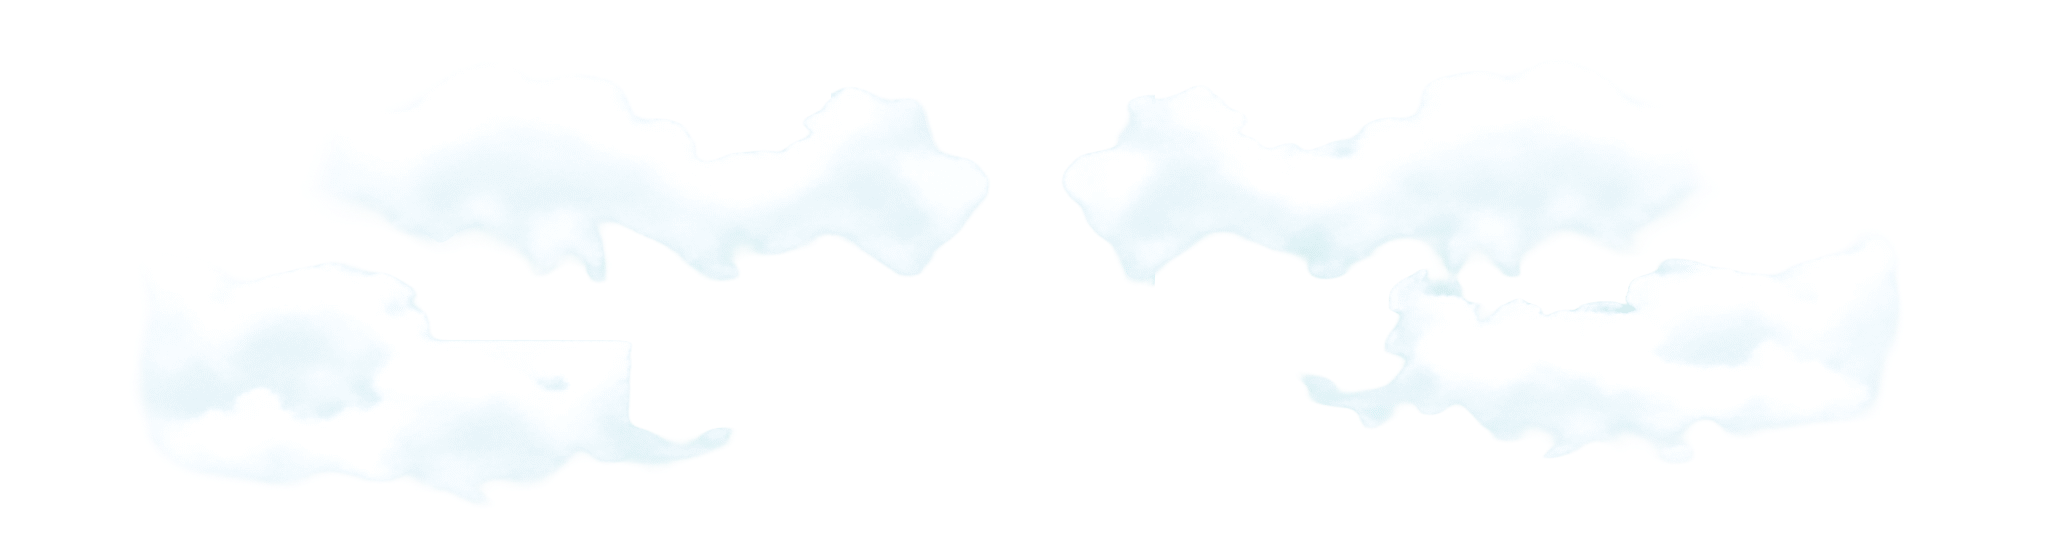
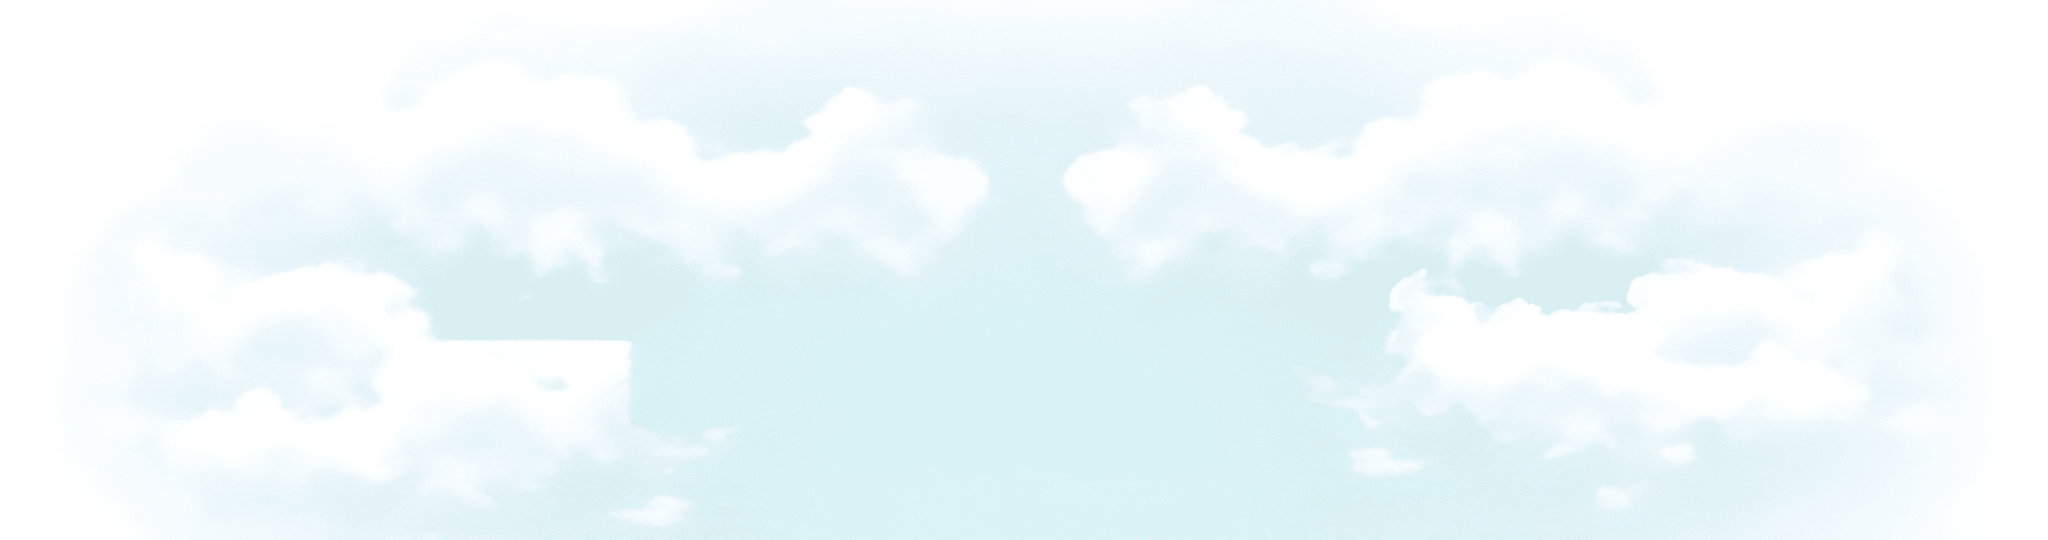
fix: improve NotFound page visuals and enhance LoaderProvider functionality

Changed region(s): [[0.125, 0.1778, 0.9062, 1.0], [0.3438, 0.1778, 0.4062, 0.2963], [0.5938, 0.2074, 0.6875, 0.2667]]

diff --git a/app/not-found.tsx b/app/not-found.tsx
@@ -2,7 +2,6 @@
 
 import { motion } from "framer-motion";
 import Link from "next/link";
-import { Button } from "@/components/ui/Button";
 
 export default function NotFound() {
 	return (
@@ -13,54 +12,90 @@ export default function NotFound() {
 					src="/assets/images/image-404.png"
 					alt=""
 					aria-hidden
-					className="h-full w-full object-cover opacity-60"
+					className="h-full w-full object-cover opacity-80 contrast-125 saturate-50"
 				/>
-				{/* Overlay dégradé doré en bas */}
-				<div className="absolute inset-0 bg-gradient-to-t from-ivory via-ivory/40 to-transparent" />
+				{/* Overlay pour contraste */}
+				<div className="absolute inset-0 bg-ivory/20" />
+				<div className="absolute inset-0 bg-gradient-to-t from-ivory via-ivory/30 to-ivory/10" />
 			</div>
 
-			{/* 404 géant — effet flouté / brume dorée */}
+			{/* 404 géant — plus visible, doré intense */}
 			<div className="pointer-events-none absolute inset-0 flex items-center justify-center">
 				<motion.span
-					initial={{ opacity: 0, scale: 0.9 }}
+					initial={{ opacity: 0, scale: 0.8 }}
 					animate={{ opacity: 1, scale: 1 }}
-					transition={{ duration: 1.2, ease: [0.22, 1, 0.36, 1] }}
-					className="select-none font-display text-[220px] leading-none font-bold tracking-tight text-gold/20 blur-[2px] sm:text-[320px] md:text-[400px]"
-					style={{ WebkitTextStroke: "1px rgba(253,207,2,0.08)" }}
+					transition={{ duration: 1, ease: [0.22, 1, 0.36, 1] }}
+					className="select-none font-display text-[200px] leading-none font-bold text-gold/40 sm:text-[300px] md:text-[380px]"
+					style={{ WebkitTextStroke: "2px rgba(253,207,2,0.15)" }}
 				>
 					404
 				</motion.span>
 			</div>
 
-			{/* Couche brume dorée supplémentaire */}
+			{/* Glow doré derrière le 404 */}
 			<div
 				aria-hidden
-				className="pointer-events-none absolute inset-0 opacity-30"
+				className="pointer-events-none absolute inset-0"
 				style={{
 					background:
-						"radial-gradient(ellipse 80% 50% at 50% 60%, rgba(253,207,2,0.15) 0%, transparent 70%)",
+						"radial-gradient(ellipse 60% 40% at 50% 50%, rgba(253,207,2,0.12) 0%, transparent 60%)",
 				}}
 			/>
 
 			{/* Contenu */}
 			<motion.div
-				initial={{ opacity: 0, y: 24 }}
+				initial={{ opacity: 0, y: 30 }}
 				animate={{ opacity: 1, y: 0 }}
-				transition={{ duration: 0.8, delay: 0.3, ease: [0.22, 1, 0.36, 1] }}
+				transition={{ duration: 0.8, delay: 0.2, ease: [0.22, 1, 0.36, 1] }}
 				className="relative z-10 flex flex-col items-center px-6 text-center"
 			>
 				<h1 className="font-display text-4xl font-bold tracking-tight text-royal sm:text-5xl">
 					Page introuvable
 				</h1>
-				<p className="mt-4 max-w-md font-sans text-base leading-relaxed text-slate-ink/70">
+				<p className="mt-4 max-w-md font-sans text-base leading-relaxed text-slate-ink">
 					La page que vous recherchez n'existe pas ou a été déplacée.
 					Revenons à l'accueil pour découvrir nos soins.
 				</p>
-				<div className="mt-8">
-					<Button href="/" variant="gold" size="lg">
-						Retour à l'accueil
-					</Button>
-				</div>
+
+				{/* Bouton avec animation agressive et répétitive */}
+				<motion.div
+					className="mt-10"
+					animate={{
+						scale: [1, 1.06, 1, 1.06, 1],
+						y: [0, -4, 0, -4, 0],
+					}}
+					transition={{
+						duration: 1.6,
+						repeat: Infinity,
+						ease: "easeInOut",
+					}}
+				>
+					<Link
+						href="/"
+						className="group relative inline-flex items-center justify-center gap-2.5 rounded-full bg-gold px-8 py-4 font-sans text-sm font-semibold uppercase tracking-[0.06em] text-royal shadow-gold transition-colors hover:bg-gold-warm focus-visible:outline-none focus-visible:ring-2 focus-visible:ring-gold-deep focus-visible:ring-offset-2 focus-visible:ring-offset-ivory"
+					>
+						{/* Glow pulsant autour du bouton */}
+						<motion.span
+							aria-hidden
+							className="absolute -inset-1 rounded-full"
+							animate={{
+								boxShadow: [
+									"0 0 0 0 rgba(253,207,2,0.4)",
+									"0 0 0 8px rgba(253,207,2,0)",
+									"0 0 0 0 rgba(253,207,2,0.4)",
+									"0 0 0 8px rgba(253,207,2,0)",
+									"0 0 0 0 rgba(253,207,2,0.4)",
+								],
+							}}
+							transition={{
+								duration: 1.6,
+								repeat: Infinity,
+								ease: "easeInOut",
+							}}
+						/>
+						<span className="relative z-10">Retour à l'accueil</span>
+					</Link>
+				</motion.div>
 			</motion.div>
 		</div>
 	);

diff --git a/app/layout.tsx b/app/layout.tsx
@@ -84,8 +84,13 @@ export default function RootLayout({
 	return (
 		<html
 			lang="fr"
+			data-scroll-behavior="smooth"
 			className={`${playfair.variable} ${inter.variable} h-full antialiased`}
 		>
+			<head>
+				<link rel="preconnect" href="https://fonts.googleapis.com" />
+				<link rel="preconnect" href="https://fonts.gstatic.com" crossOrigin="anonymous" />
+			</head>
 			<body className="min-h-full flex flex-col bg-ivory">
 				<LoaderProvider>{children}</LoaderProvider>
 				<Script id="scroll-restore" strategy="beforeInteractive">

diff --git a/components/LoaderProvider.tsx b/components/LoaderProvider.tsx
@@ -11,9 +11,7 @@ export function LoaderProvider({ children }: { children: React.ReactNode }) {
 	return (
 		<>
 			{!loaded ? <Loader onComplete={handleComplete} /> : null}
-			<div style={{ opacity: loaded ? 1 : 0, transition: "opacity 0.4s ease" }}>
-				{children}
-			</div>
+			{children}
 		</>
 	);
 }

diff --git a/app/globals.css b/app/globals.css
@@ -62,7 +62,6 @@
 /* ---------- Base ---------- */
 @layer base {
 	html {
-		scroll-behavior: smooth;
 		-webkit-font-smoothing: antialiased;
 		text-rendering: optimizeLegibility;
 	}